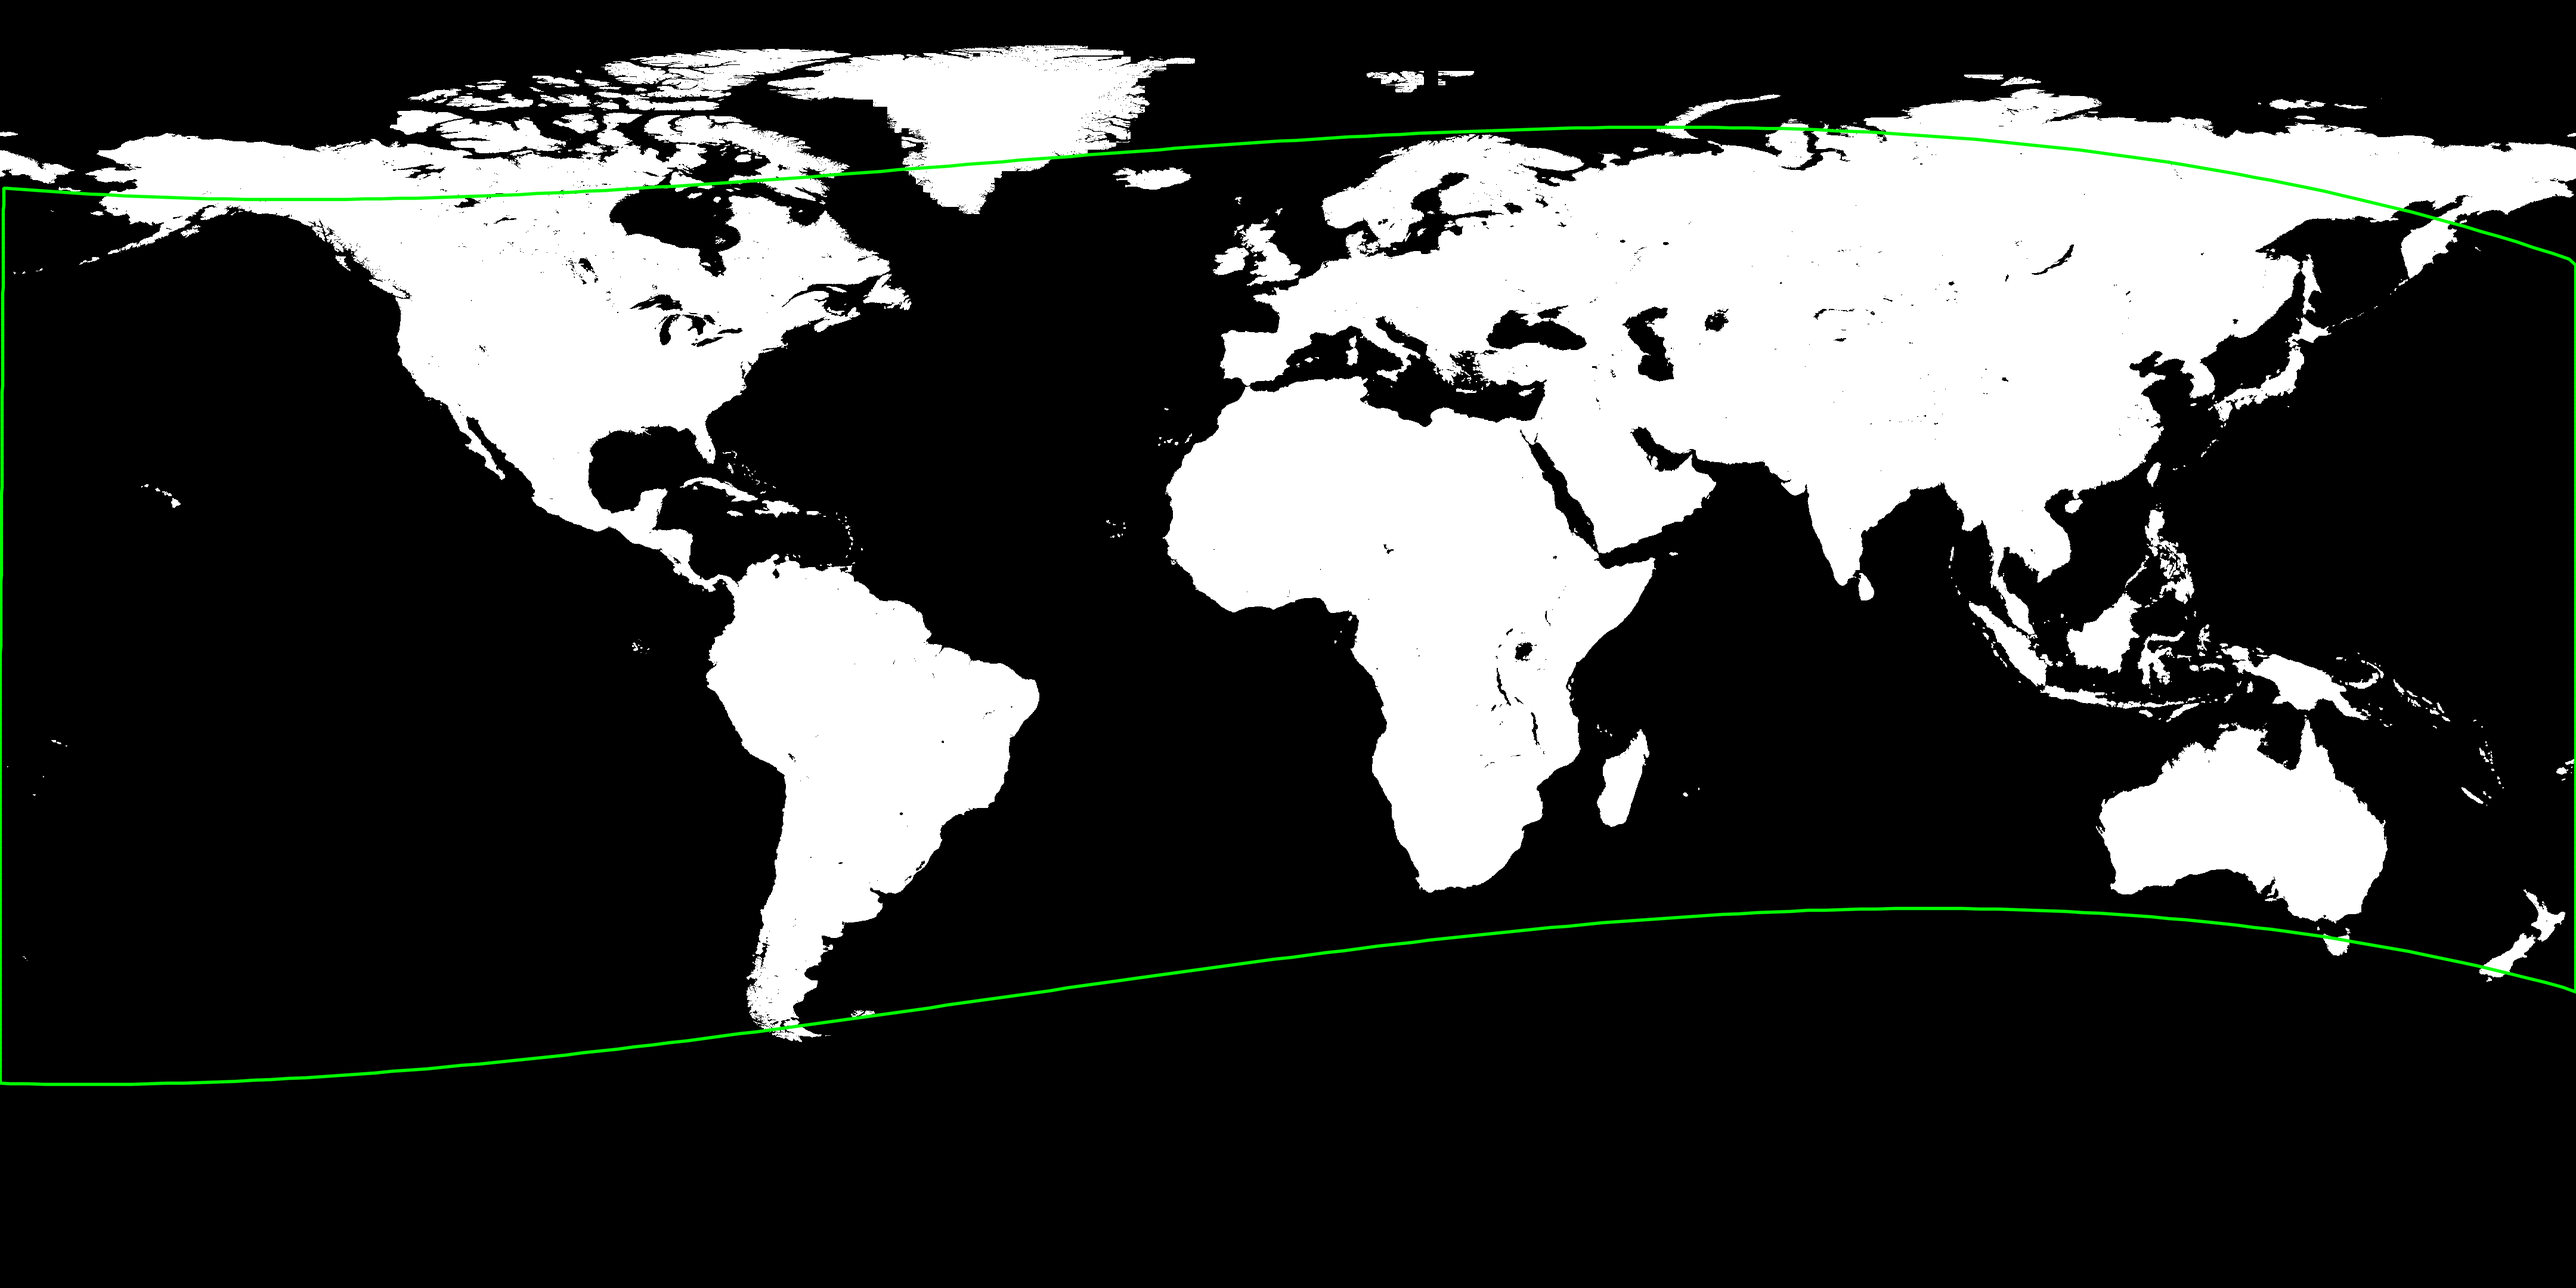
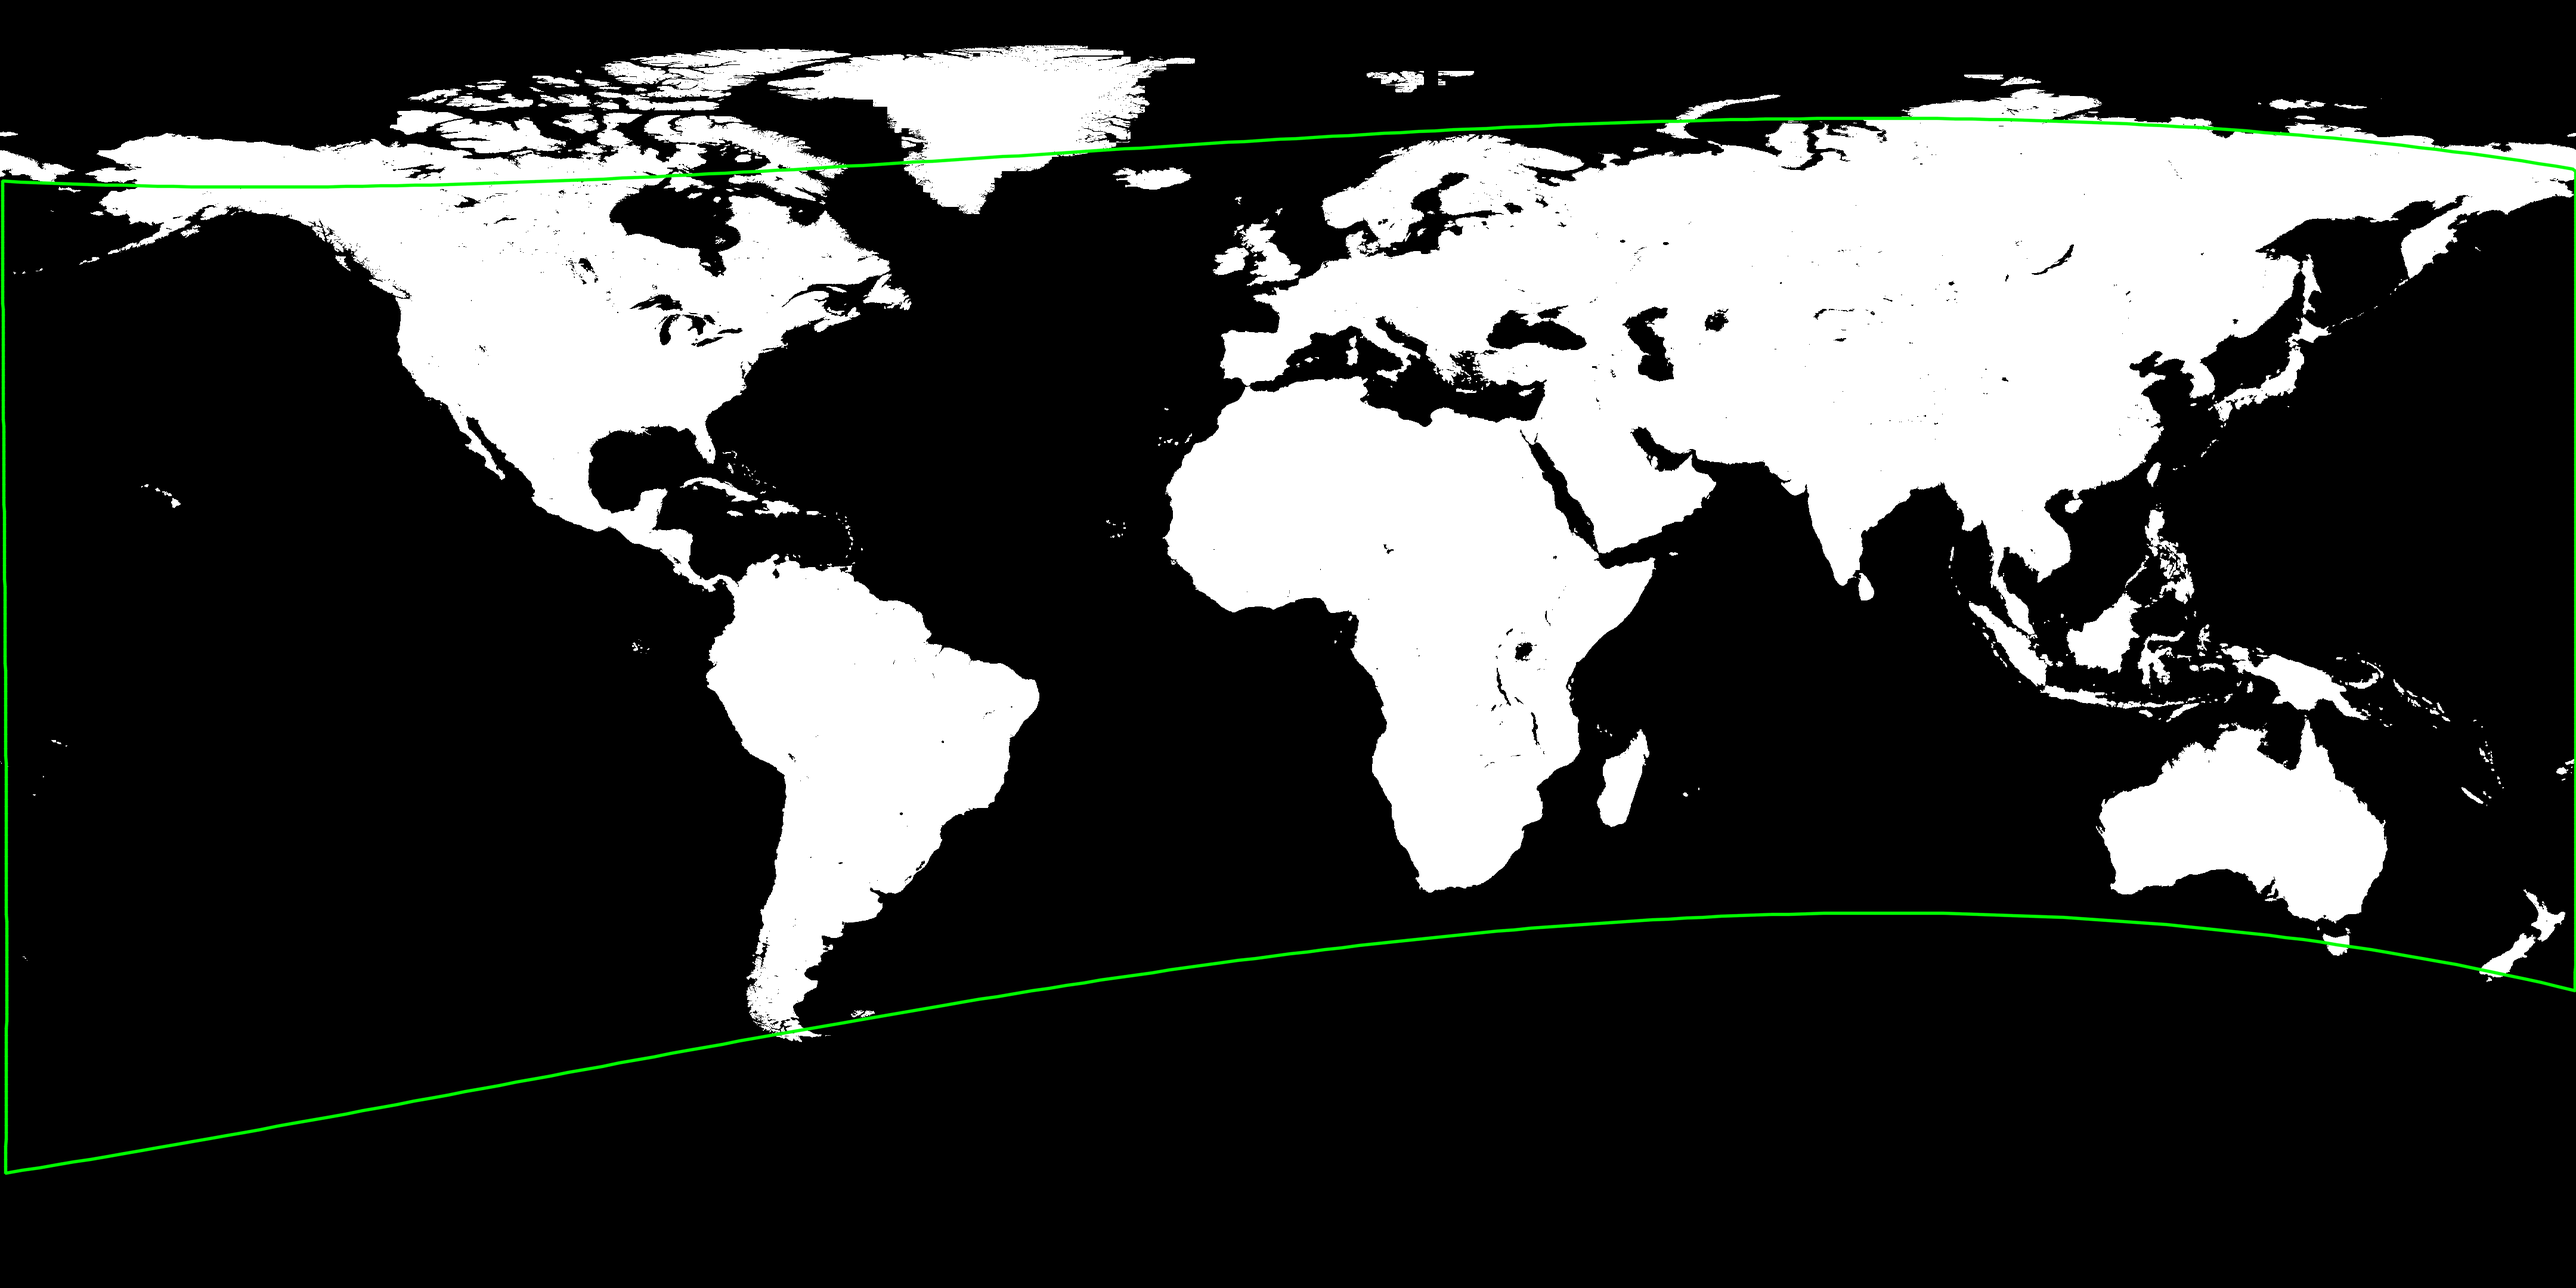
best can do

diff --git a/deprojector_1.2/app.py b/deprojector_1.2/app.py
@@ -68,9 +68,9 @@ def executePipeline():
             extent_result=result,
             work_h_bbox=420, #420 by default
             warp_mode="tps",   
-            levels=4,             
+            levels=3, # 3 for luck
             steps_per_lvl=1200,    
-            lr_init=4.0, #2.0 default
+            lr_init=4.0, #2.0; 4.0 default
             lr_gain=1.6, #0.6 by default
             lam_fold=2.0, #2.0 tends to yield best results
             points_gain=1.5, #1.5 by default
